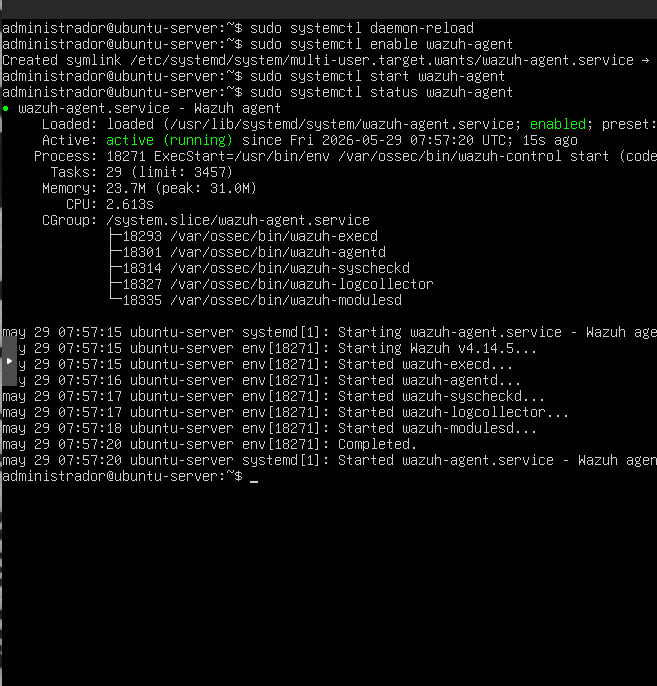
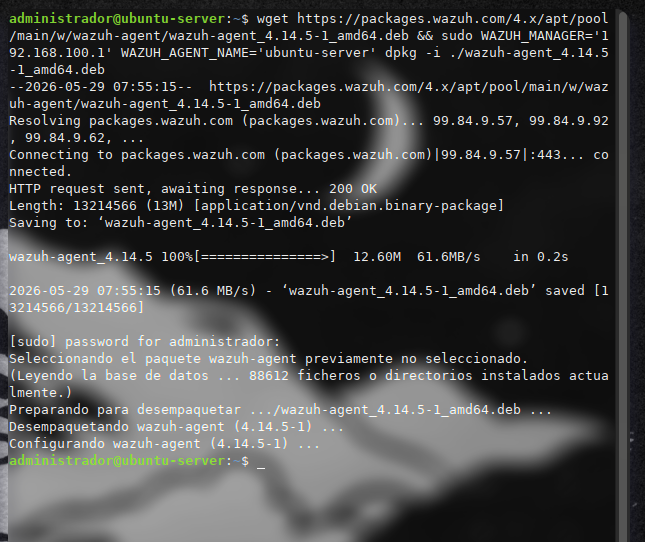
Retoques pfsense y wazuh + README

diff --git a/README.md b/README.md
@@ -1,0 +1,134 @@
+# Blue Team Network Security Lab
+
+Laboratorio de seguridad de red orientado al equipo azul (Blue Team), construido sobre Proxmox VE. Simula una infraestructura empresarial real con firewall perimetral, servicios de red, Active Directory, cliente Windows y un SIEM para monitoreo y detección de amenazas.
+
+---
+
+## Arquitectura del Laboratorio
+
+```
+                    ┌─────────────────────────────────────────────────────────┐
+                    │                     Proxmox VE                          │
+                    │              Red interna: 192.168.100.0/24              │
+                    │                                                         │
+                    │  ┌────────────┐  ┌─────────────────┐  ┌─────────────┐ │
+                    │  │  pfSense   │  │  Ubuntu Server  │  │    Wazuh    │ │
+                    │  │  Firewall  │  │  DHCP + DNS     │  │    SIEM     │ │
+                    │  │  .1 / .2   │  │  192.168.100.1  │  │ .100.113    │ │
+                    │  └────────────┘  └─────────────────┘  └─────────────┘ │
+                    │                                                         │
+                    │  ┌──────────────────────┐  ┌──────────────────────────┐│
+                    │  │  Windows Server 2022 │  │   Windows 10 Pro Client  ││
+                    │  │  Active Directory DC │  │   Unido a red.local      ││
+                    │  │  192.168.100.3       │  │   DHCP (.10 – .50)       ││
+                    │  └──────────────────────┘  └──────────────────────────┘│
+                    └─────────────────────────────────────────────────────────┘
+```
+
+---
+
+## Componentes
+
+| VM | Sistema Operativo | Rol | IP |
+|---|---|---|---|
+| `pfSense` | pfSense CE | Firewall perimetral | 192.168.100.1 (LAN) / .2 (WAN) |
+| `ubuntu-server` | Ubuntu Server 24.04 LTS | DHCP + DNS (BIND9) + Wazuh Agent | 192.168.100.1 |
+| `wazuh` | Ubuntu Server 24.04 LTS | SIEM Wazuh (Docker) | 192.168.100.113 |
+| `win-server` | Windows Server 2022 Std | Active Directory DC | 192.168.100.3 |
+| `win-client` | Windows 10 Pro | Endpoint unido al dominio | DHCP (rango .10 – .50) |
+
+---
+
+## Tecnologías Utilizadas
+
+- **pfSense Community Edition** — Firewall con reglas de seguridad por capas
+- **isc-dhcp-server** — Servidor DHCP para la red interna
+- **BIND9** — DNS autoritativo para la zona `red.local`
+- **Wazuh 4.14.5** — SIEM / IDS open source desplegado vía Docker
+- **Windows Server 2022** — Active Directory Domain Services (AD DS)
+- **Group Policy Objects (GPO)** — Políticas de contraseñas y seguridad del dominio
+- **Proxmox VE** — Hipervisor de virtualización tipo 1
+
+---
+
+## Dominio Active Directory
+
+| Parámetro | Valor |
+|---|---|
+| Nombre del dominio | `red.local` |
+| Nombre NetBIOS | `RED` |
+| Nivel funcional del bosque | Windows Server 2016 |
+| Nivel funcional del dominio | Windows Server 2016 |
+| Controlador de dominio | `WIN-HOGMAS1NJHI` |
+| IP del DC | `192.168.100.3` |
+| DNS preferido (clientes) | `192.168.100.1` |
+
+---
+
+## Reglas de Firewall (pfSense — Interfaz WAN)
+
+| Acción | Protocolo | Origen | Destino | Puerto | Descripción |
+|---|---|---|---|---|---|
+| Block | * | Bogon networks | * | * | Block bogon networks (default) |
+| Block | TCP | Any | Any | * | Denegación por defecto |
+| Pass | TCP | 192.168.100.0/24 | Any | 22 | SSH |
+| Pass | TCP/UDP | 192.168.100.0/24 | 192.168.100.1/24 | 67 | DHCP |
+| Pass | TCP/UDP | 192.168.100.0 | 192.168.100.1 | 53 | DNS |
+| Pass | TCP | 192.168.100.0/24 | 192.168.100.113 | 1514 | Wazuh — eventos del agente |
+| Pass | TCP | 192.168.100.0/24 | 192.168.100.113 | 1515 | Wazuh — registro de agentes |
+| Pass | TCP | 192.168.100.0/24 | 192.168.100.113 | 55000 | Wazuh API |
+
+---
+
+## Políticas de Seguridad (GPO — Default Domain Policy)
+
+| Política | Valor |
+|---|---|
+| Historial de contraseñas | 5 contraseñas recordadas |
+| Antigüedad máxima | 42 días |
+| Antigüedad mínima | 1 día |
+| Longitud mínima | 12 caracteres |
+| Complejidad requerida | Habilitada |
+| Cifrado reversible | Deshabilitado |
+
+---
+
+## Agentes Wazuh Desplegados
+
+| Nombre del agente | Plataforma | Versión | Manager |
+|---|---|---|---|
+| `Ubuntu-server` | Linux DEB amd64 | 4.14.5 | 192.168.100.113 |
+| `Windows-AD` | Windows MSI 64-bit | 4.14.5 | 192.168.100.113 |
+
+---
+
+## Estructura del Repositorio
+
+```
+Blue--team-network-security-lab/
+└── img/
+    ├── pfsense/          # Configuración del firewall (21 capturas)
+    ├── ubuntu-server/    # Instalación y configuración DHCP/DNS (18 capturas)
+    ├── wazuh/            # Despliegue SIEM y registro de agentes (16 capturas)
+    ├── win-server/       # Instalación AD DS, DC y políticas (20 capturas)
+    ├── win-client/       # Instalación Windows 10 y unión al dominio (15 capturas)
+    └── specs/            # Especificaciones de hardware de cada VM
+        ├── pfsense/
+        ├── ubuntu-server/
+        ├── wazuh/
+        ├── win-server/
+        └── win-client/
+```
+
+---
+
+## Requisitos Previos
+
+- Proxmox VE 7.x o superior
+- ISOs necesarios:
+  - pfSense CE (última versión estable)
+  - Ubuntu Server 24.04 LTS
+  - Windows Server 2022 Evaluation (x64)
+  - Windows 10 Pro (x64)
+- Mínimo **16 GB RAM** en el host Proxmox
+- Red virtual interna configurada (`vmbr1` o equivalente en 192.168.100.0/24)
